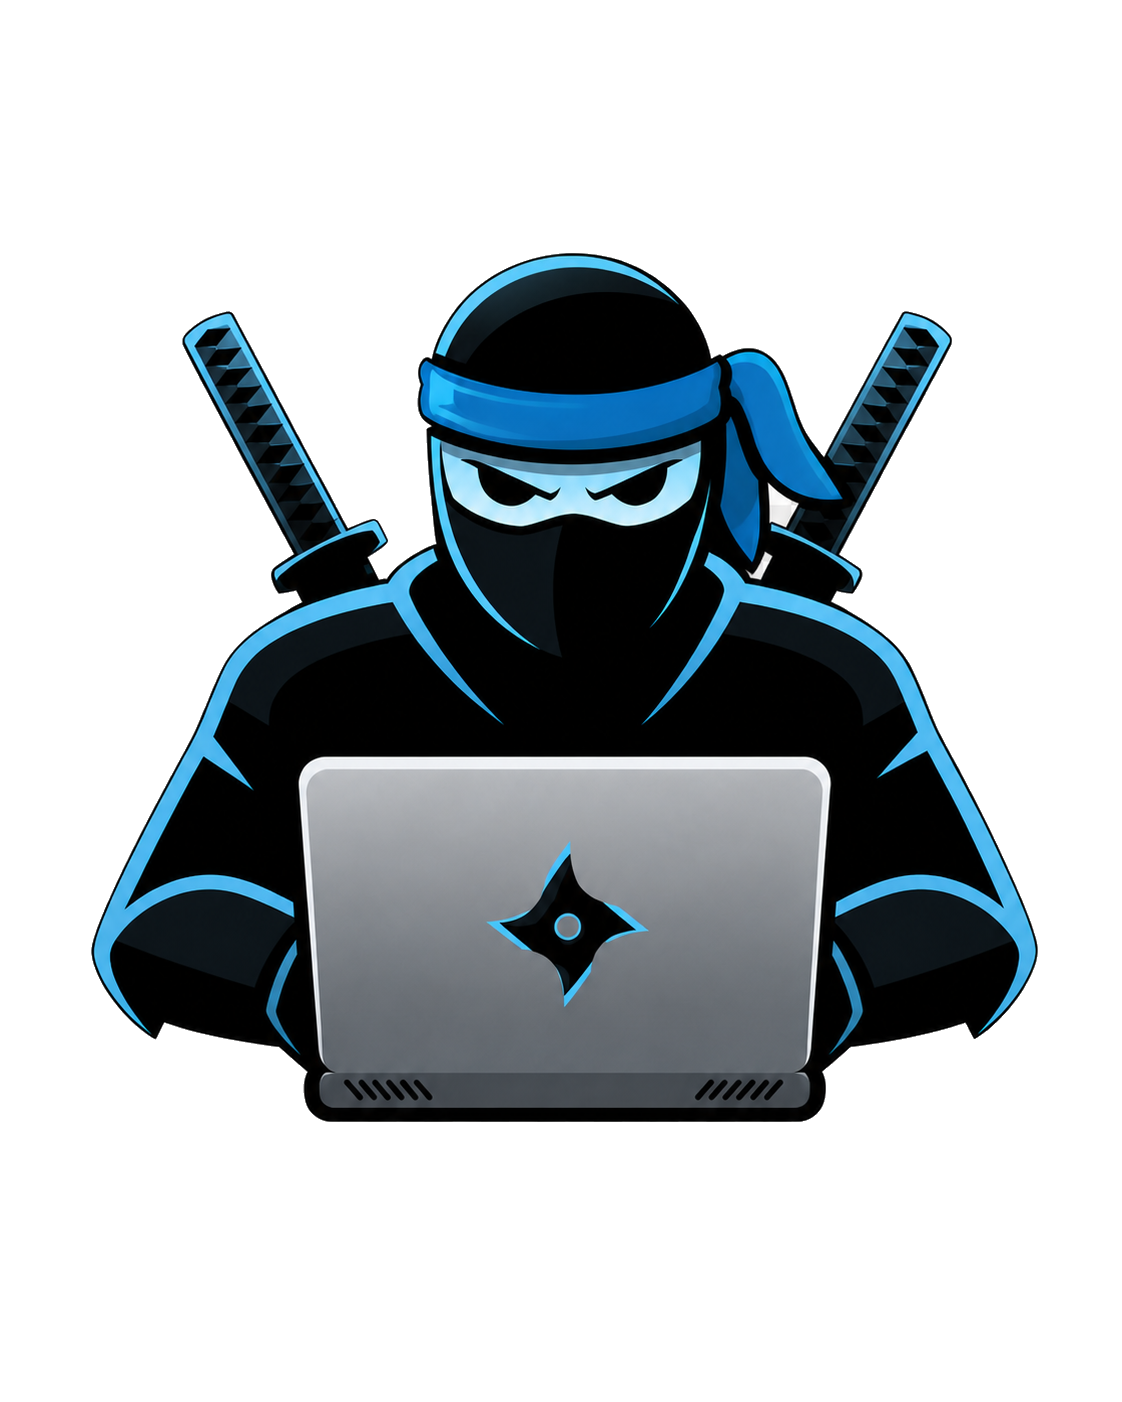
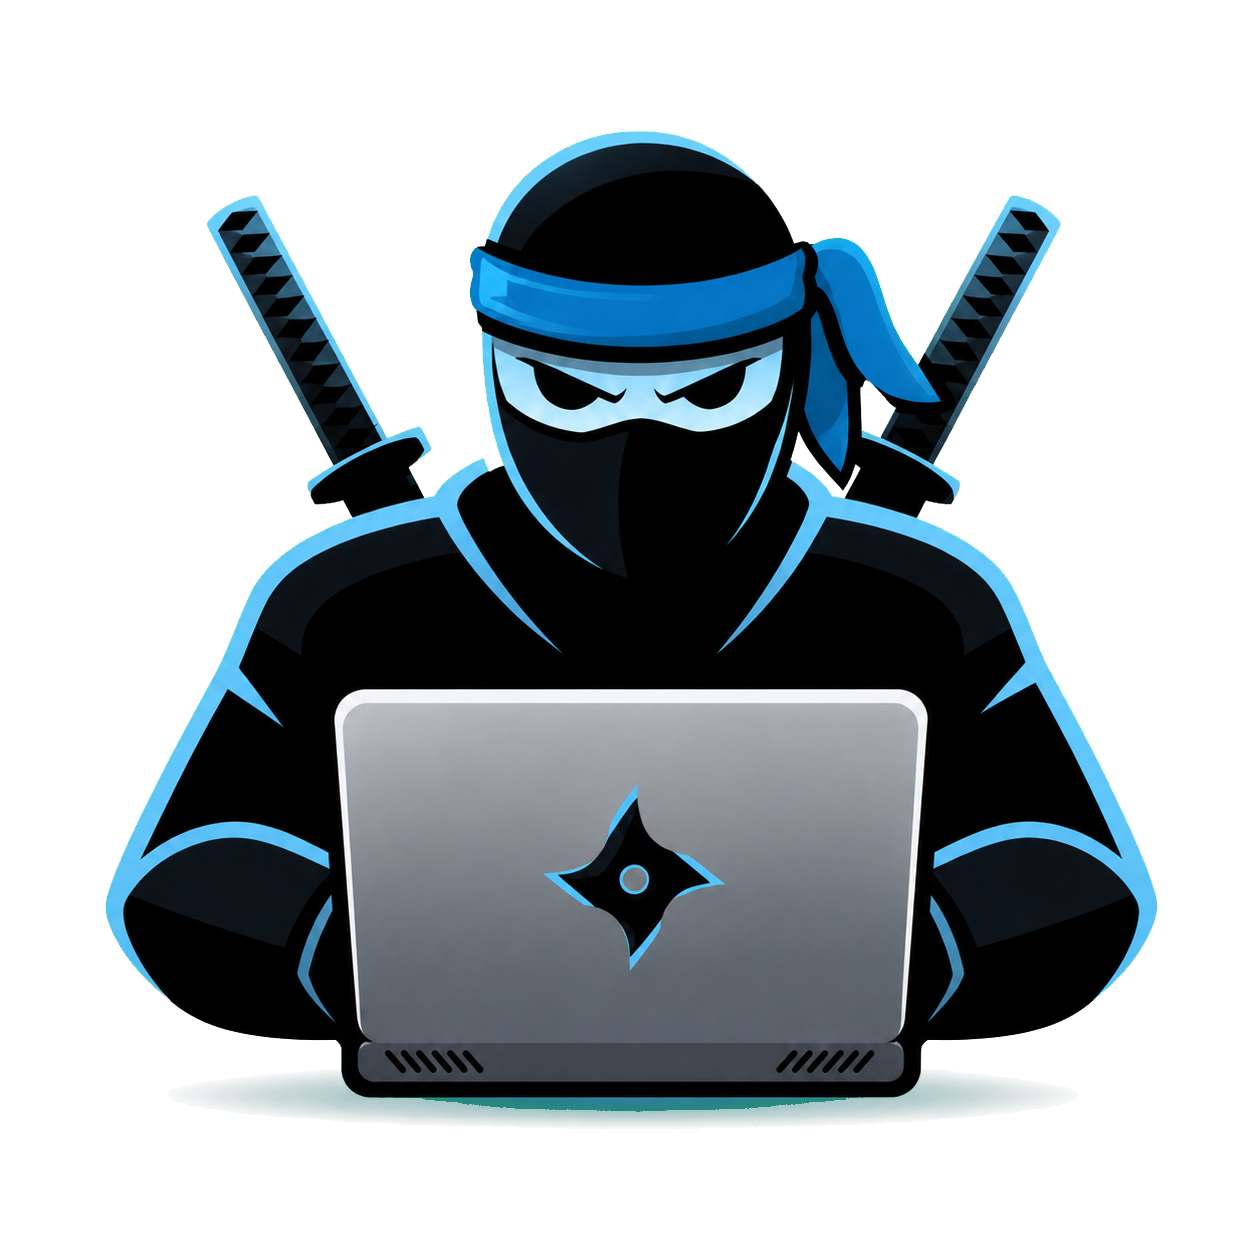
Release Smart Office Installer v3.3.9

Changed region(s): [[0.0624, 0.0933, 0.9358, 0.9019]]

diff --git a/OfficeSmart/InstallerForm.cs b/OfficeSmart/InstallerForm.cs
@@ -228,7 +228,7 @@ public class InstallerForm : Form
 
 	private void BuildForm()
 	{
-		Text = "PcNinja's Smart Office Installer";
+		Text = "Smart Office Installer";
 		base.ClientSize = new Size(740, 800);
 		MinimumSize = new Size(756, 839);
 		MaximumSize = MinimumSize;
@@ -277,7 +277,7 @@ public class InstallerForm : Form
 		hdr.Controls.Add(panel);
 		hdr.Controls.Add(new Label
 		{
-			Text = "PcNinja's Smart Office Installer",
+			Text = "Smart Office Installer",
 			Location = new Point(72, 16),
 			Size = new Size(500, 30),
 			Font = new Font("Segoe UI", 14f, FontStyle.Bold),
@@ -1622,7 +1622,7 @@ public class InstallerForm : Form
 			btnBack.Enabled = false;
 			txtLog.Clear();
 			pbar.Value = 0;
-			AppLog("PcNinja Smart Office Installer - starting...");
+			AppLog("Smart Office Installer - starting...");
 			worker.RunWorkerAsync();
 		}
 	}
@@ -1772,7 +1772,7 @@ public class InstallerForm : Form
 			UseShellExecute = false,
 			CreateNoWindow = true
 		});
-		process.WaitForExit();
+		MonitorOfflineDownloadProgress(bw, process, stagingRoot);
 		TryDel(text);
 		if (process.ExitCode != 0)
 		{
@@ -1787,7 +1787,7 @@ public class InstallerForm : Form
 		CopyDirectoryContents(text2, packagePath);
 		File.Copy(Path.Combine(extractDir, "setup.exe"), Path.Combine(packagePath, "setup.exe"), overwrite: true);
 		File.Copy(xmlFile, Path.Combine(packagePath, "Office_Config.xml"), overwrite: true);
-		string contents = "@echo off\r\nnet session >nul 2>&1\r\nif %errorLevel% neq 0 (\r\n    echo.\r\n    echo  ERROR: Must be run as Administrator.\r\n    echo  Right-click Install-Office.bat and choose Run as administrator.\r\n    echo.\r\n    pause\r\n    exit /b 1\r\n)\r\necho  PcNinja Smart Office Installer - Offline Mode\r\necho.\r\ncd /d \"%~dp0\"\r\necho  Starting installation, please wait...\r\nsetup.exe /configure Office_Config.xml\r\necho.\r\necho  Done. Press any key to exit.\r\npause > nul\r\n";
+		string contents = "@echo off\r\nnet session >nul 2>&1\r\nif %errorLevel% neq 0 (\r\n    echo.\r\n    echo  ERROR: Must be run as Administrator.\r\n    echo  Right-click Install-Office.bat and choose Run as administrator.\r\n    echo.\r\n    pause\r\n    exit /b 1\r\n)\r\necho  Smart Office Installer - Offline Mode\r\necho.\r\ncd /d \"%~dp0\"\r\necho  Starting installation, please wait...\r\nsetup.exe /configure Office_Config.xml\r\necho.\r\necho  Done. Press any key to exit.\r\npause > nul\r\n";
 		File.WriteAllText(Path.Combine(packagePath, "Install-Office.bat"), contents, Encoding.ASCII);
 		Rep(bw, 96, "Cleaning up temporary files...");
 		TryDel(odtExe);
@@ -1795,6 +1795,38 @@ public class InstallerForm : Form
 		TryDelDir(extractDir);
 		TryDelDir(stagingRoot);
 		Rep(bw, 100, "Done!  Copy the entire \"" + packagePath + "\" folder to the target machine\r\nand run Install-Office.bat as Administrator.");
+	}
+
+	private void MonitorOfflineDownloadProgress(BackgroundWorker bw, Process process, string stagingRoot)
+	{
+		string officeRoot = Path.Combine(stagingRoot, "Office");
+		DateTime started = DateTime.UtcNow;
+		DateTime lastReport = DateTime.MinValue;
+		long lastBytes = 0L;
+		DateTime lastSample = started;
+		int progress = 52;
+		while (!process.WaitForExit(1000))
+		{
+			long bytes = GetDirectorySizeSafe(officeRoot);
+			DateTime now = DateTime.UtcNow;
+			double elapsedMinutes = Math.Max(0.1, (now - started).TotalMinutes);
+			double sampleMinutes = Math.Max(0.1, (now - lastSample).TotalMinutes);
+			double totalMb = bytes / 1048576.0;
+			double mbPerMinute = Math.Max(0.0, ((bytes - lastBytes) / 1048576.0) / sampleMinutes);
+			if (bytes > lastBytes || (now - lastReport).TotalSeconds >= 10.0)
+			{
+				int activityProgress = 52 + Math.Min(36, (int)Math.Floor(elapsedMinutes * 1.5));
+				if (bytes > lastBytes)
+				{
+					activityProgress = Math.Max(activityProgress, progress + 1);
+				}
+				progress = Math.Min(88, Math.Max(progress, activityProgress));
+				Rep(bw, progress, string.Format("Downloading Office source files... {0:N0} MB downloaded ({1:N1} MB/min)", totalMb, mbPerMinute));
+				lastReport = now;
+				lastBytes = bytes;
+				lastSample = now;
+			}
+		}
 	}
 
 	private string ResolveOfflinePackagePath(string selectedPath)
@@ -1989,6 +2021,33 @@ public class InstallerForm : Form
 		}
 		catch
 		{
+		}
+	}
+
+	private static long GetDirectorySizeSafe(string path)
+	{
+		try
+		{
+			if (!Directory.Exists(path))
+			{
+				return 0L;
+			}
+			long total = 0L;
+			foreach (string file in Directory.GetFiles(path, "*", SearchOption.AllDirectories))
+			{
+				try
+				{
+					total += new FileInfo(file).Length;
+				}
+				catch
+				{
+				}
+			}
+			return total;
+		}
+		catch
+		{
+			return 0L;
 		}
 	}
 
@@ -2345,7 +2404,7 @@ public class InstallerForm : Form
 
 		string latestLabel = string.IsNullOrWhiteSpace(manifest.PublicLabel) ? "v" + latestVersion : manifest.PublicLabel;
 		string currentLabel = currentVersion.ToString();
-		string message = "A new version of PcNinja Smart Office Installer is available." +
+		string message = "A new version of Smart Office Installer is available." +
 			"\r\n\r\nCurrent version: " + currentLabel +
 			"\r\nLatest version: " + latestLabel +
 			"\r\n\r\nOpen the GitHub download now?";

diff --git a/Properties/AssemblyInfo.cs b/Properties/AssemblyInfo.cs
@@ -4,11 +4,11 @@ using System.Runtime.CompilerServices;
 using System.Runtime.InteropServices;
 using System.Runtime.Versioning;
 
-[assembly: AssemblyTitle("PcNinja's Smart Office Installer")]
-[assembly: AssemblyDescription("Volume Deployment Tool by PcNinja.Pro - www.pcninja.pro")]
+[assembly: AssemblyTitle("Smart Office Installer")]
+[assembly: AssemblyDescription("Microsoft Office Deployment Tool frontend by PcNinja.Pro")]
 [assembly: AssemblyCompany("PcNinja.Pro")]
-[assembly: AssemblyProduct("PcNinja Smart Office Installer")]
+[assembly: AssemblyProduct("Smart Office Installer")]
 [assembly: AssemblyCopyright("(c) 2025 PcNinja.Pro - www.pcninja.pro")]
-[assembly: AssemblyFileVersion("3.3.8.0")]
+[assembly: AssemblyFileVersion("3.3.9.0")]
 [assembly: ComVisible(false)]
 [assembly: AssemblyVersion("3.3.0.0")]

diff --git a/README.md b/README.md
@@ -1,10 +1,10 @@
-# PcNinja Smart Office Installer
+# Smart Office Installer
 
-PcNinja Smart Office Installer is a Windows WinForms utility for installing or removing Microsoft Office through the official Microsoft Office Deployment Tool.
+Smart Office Installer is a Windows WinForms utility for installing or removing Microsoft Office through the official Microsoft Office Deployment Tool.
 
-The current stable release is `v3.3.8`, with Windows file version `3.3.8.0`.
+The current stable release is `v3.3.9`, with Windows file version `3.3.9.0`.
 
-The latest release-candidate line was `v3.3.5-rc1`, with Windows file version `3.3.5.0`.
+The executable is named `Smart Office Installer.exe`; its version is shown in Windows file properties and installed-app metadata.
 
 ## What it does
 
@@ -36,7 +36,7 @@ dotnet build .\PcNinja.SmartOfficeInstaller.csproj -c Release
 The compiled executable is written to:
 
 ```text
-bin\Release\net48\OfficeSmart-v3.3.8.exe
+bin\Release\net48\Smart Office Installer.exe
 ```
 
 You can also run:
@@ -51,10 +51,10 @@ which builds the app and copies the executable into `artifacts\`.
 
 Verified release EXE files are kept locally under `release-assets\` for upload to GitHub Releases. They are intentionally ignored by Git so the repository stays source-focused.
 
-Verified stable `v3.3.8` SHA256:
+Verified stable `v3.3.9` SHA256:
 
 ```text
[2 lines of base64/hex data omitted]
 ```
 
 ## Notes

diff --git a/CHANGELOG.md b/CHANGELOG.md
@@ -1,5 +1,12 @@
 # Changelog
 
+## v3.3.9
+
+- Renamed the application and release executable to `Smart Office Installer`.
+- Moved the release version to Windows file properties and installed-app metadata instead of the executable filename.
+- Improved offline download progress reporting with observed download size and transfer rate.
+- Windows file version: `3.3.9.0`.
+
 ## v3.3.8
 
 - Restored the previous installer/window icon design with a transparent icon background.

diff --git a/release-assets/README.md b/release-assets/README.md
@@ -7,9 +7,8 @@ Executable files are ignored by Git. Upload them to the matching GitHub Release 
 Current verified artifact:
 
 ```text
-OfficeSmart-v3.3.exe
-SHA256: 498922A68EA7A2BCC94B96E5E8A15425BAFE842B6B5613F0304821D634080ED1
-FileVersion/ProductVersion: 3.3.3.1
+Smart Office Installer.exe
+SHA256: 7C1EA50247F529DFBBEB5FAAC4D7705F00CF5EE2296AF9A82AC48A1B84717CC3
+FileVersion/ProductVersion: 3.3.9.0
 AssemblyVersion: 3.3.0.0
 ```
-

diff --git a/docs/DEV_WORKFLOW.md b/docs/DEV_WORKFLOW.md
@@ -30,10 +30,10 @@ Windows file versions must stay numeric, for example:
 3.3.4.0
 ```
 
-The executable name may include the RC suffix:
+The executable keeps the stable product name during RC testing:
 
 ```text
-OfficeSmart-v3.3.4-rc1.exe
+Smart Office Installer.exe
 ```
 
 ## Required Checks
@@ -52,4 +52,3 @@ powershell -NoProfile -ExecutionPolicy Bypass -File .\scripts\Test-OfficeSmartPu
 4. Merge `dev` into `main`.
 5. Build a final non-RC executable.
 6. Publish a final GitHub Release.
-

diff --git a/AGENTS.md b/AGENTS.md
@@ -49,8 +49,8 @@ The check must build successfully, confirm version metadata, and return no sensi
 ## Versioning
 
 - `AssemblyVersion` uses the stable API-style version, currently `3.3.0.0`.
-- `AssemblyFileVersion` and Windows ProductVersion use the precise release version, currently `3.3.3.1`.
-- The executable name currently follows `OfficeSmart-v3.3.exe`.
+- `AssemblyFileVersion` and Windows ProductVersion use the precise release version, currently `3.3.9.0`.
+- The executable name is `Smart Office Installer.exe`; release versions are stored in Windows file metadata rather than the filename.
 - When preparing a new public release, update `Properties\AssemblyInfo.cs`, `README.md`, `CHANGELOG.md`, and GitHub release notes together.
 
 ## Release Flow